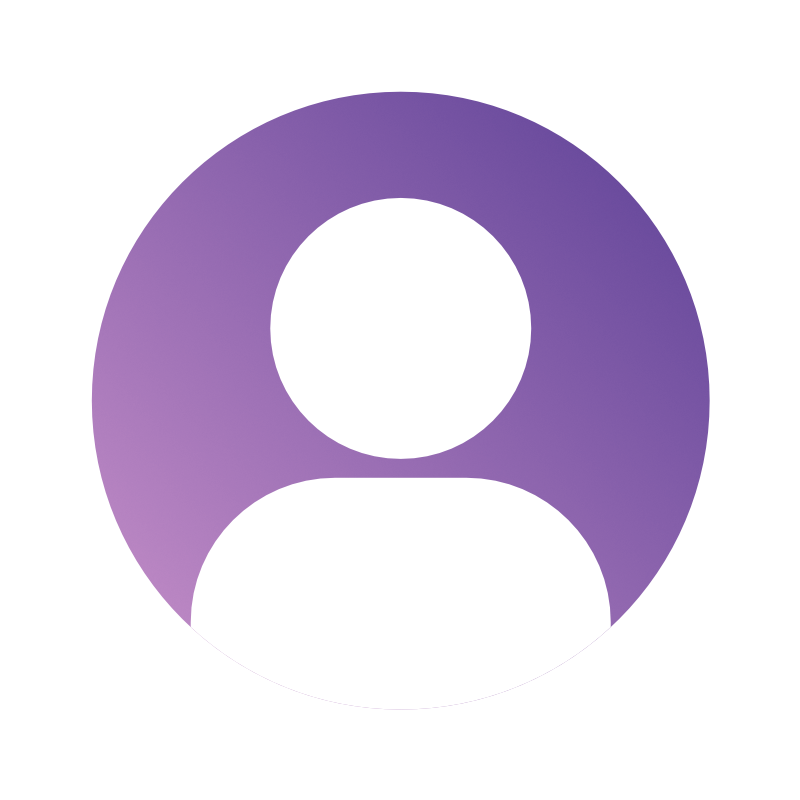
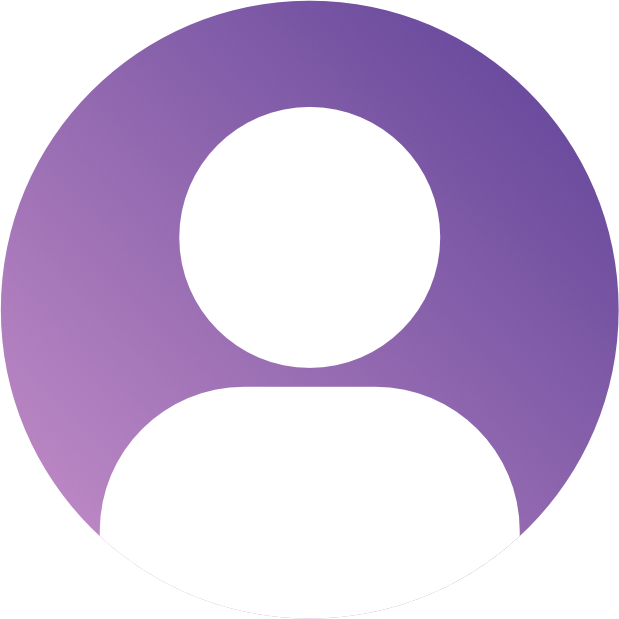
画像をトリミングし、HTMLにマージンを追加

diff --git a/board/templates/reviews.html b/board/templates/reviews.html
@@ -76,7 +76,7 @@
             {% for row in review_recent_comments %}
             <tr>
                 <td class="review-anon-icon align-top">
-                    <img src="{% static 'board/anonymous_icon.png' %}" alt="user icon" class="img-fluid mx-auto">
+                    <img src="{% static 'board/anonymous_icon.png' %}" alt="user icon" class="img-fluid mx-auto mt-1">
                 </td>
                 <td class="fw-light h-auto">
                     <div class="review-comment-box">
@@ -102,7 +102,7 @@
                 {% for row in review_more_comments %}
                 <tr>
                     <td class="review-anon-icon align-top">
-                        <img src="{% static 'board/anonymous_icon.png' %}" alt="user icon" class="img-fluid mx-auto">
+                        <img src="{% static 'board/anonymous_icon.png' %}" alt="user icon" class="img-fluid mx-auto mt-1">
                     </td>
                     <td class="fw-light">
                         <div class="review-comment-box">
